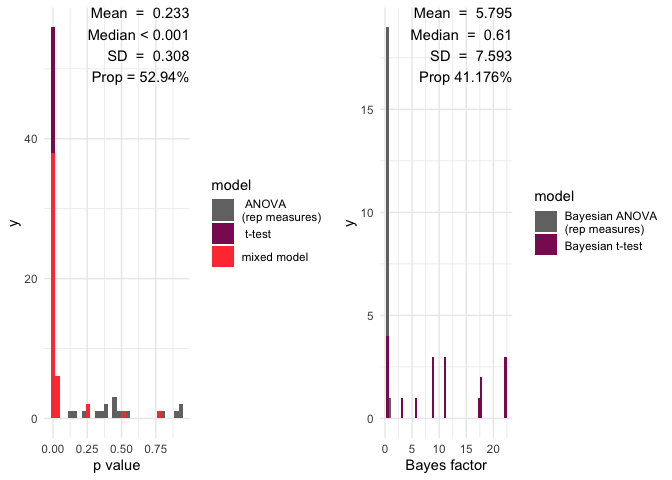
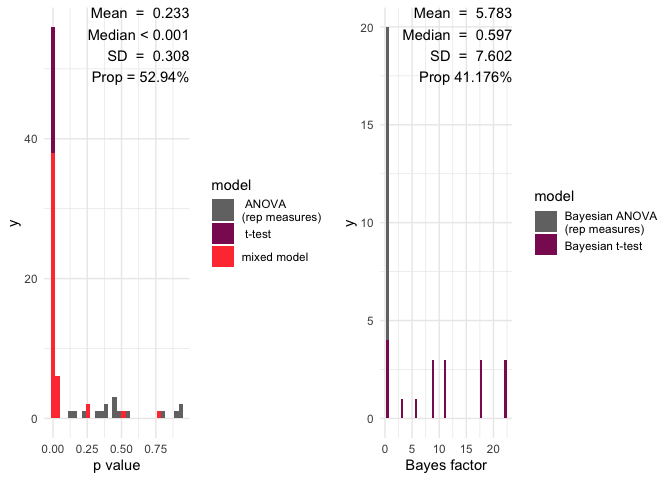
Had to remove the codecov as it caused the package to be rejected.

diff --git a/README.md b/README.md
@@ -2,7 +2,6 @@
 <!-- README.md is generated from README.Rmd. Please edit that file -->
 <!-- badges: start -->
 
-[![codecov](https://codecov.io/gh/AngelosPsy/multifear/branch/master/graph/badge.svg)](https://codecov.io/gh/AngelosPsy/multifear)
 [![R-CMD-check](https://github.com/AngelosPsy/multifear/workflows/R-CMD-check/badge.svg)](https://github.com/AngelosPsy/multifear/actions)
 [![R-CMD-check](https://github.com/AngelosPsy/multifear/actions/workflows/R-CMD-check.yaml/badge.svg)](https://github.com/AngelosPsy/multifear/actions/workflows/R-CMD-check.yaml)
 <!-- badges: end -->
@@ -314,9 +313,9 @@ function and you will get:
 ``` r
 multifear::inference_cs(res_multi, na.rm = TRUE)
 #>   mean_p_value median_p_value sd_p_value prop_p_value mean_bf_value
-#> 1   0.04462268   0.0002425968  0.1662026     94.11765      1888.148
+#> 1   0.04462268   0.0002425968  0.1662026     94.11765      1885.262
 #>   median_bf_value sd_bf_value prop_bf_value
-#> 1        4.319848    10161.98      73.52941
+#> 1        4.319848    10119.94      73.52941
 ```
 
 And here we have a barplot of the results:

diff --git a/cran-comments.md b/cran-comments.md
@@ -1,4 +1,13 @@
-* Wrote a small patch to fix the changes in the stats:t.test() package for handling NAs.
+## Resubmission
+This is a resubmission. In this version I have:
+* Removed the web address that produced the following error:
+
+Found the following (possibly) invalid URLs:
+  URL: https://codecov.io/gh/AngelosPsy/multifear (moved to https://app.codecov.io/gh/AngelosPsy/multifear)
+    From: README.md
+    Status: 301
+    Message: Moved Permanently
+
 
 ## Test environments
 * local OS X install, R 4.3.1.
@@ -6,11 +15,6 @@
 * win-builder (devel, previous major release, and release)
 
 ## R CMD check results
-0 errors | 0 warnings | 1 note
+0 errors | 0 warnings | 0 note
 
-Found the following (possibly) invalid URLs:
-  URL: https://codecov.io/gh/AngelosPsy/multifear (moved to https://app.codecov.io/gh/AngelosPsy/multifear)
-    From: README.md
-    Status: 301
-    Message: Moved Permanently
 
